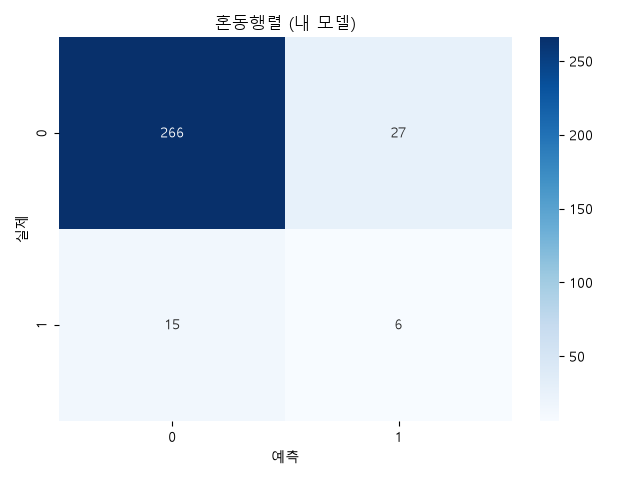
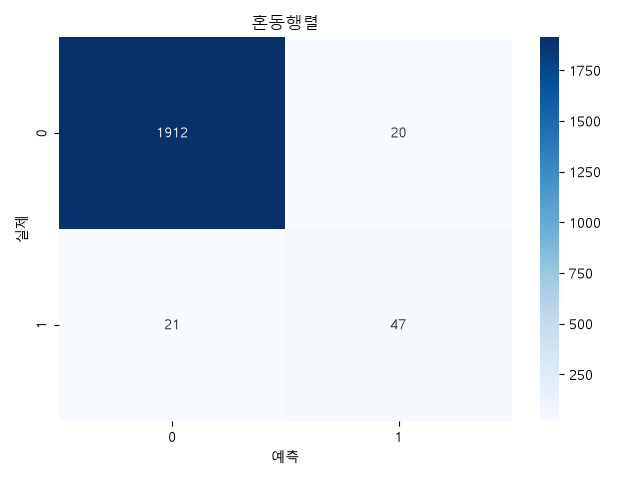
Rework tabs 3-5 for classification pipeline and add threshold slider
Reverts an in-session regression detour back to classification (logistic
regression / decision tree / random forest with an optional class-weight
toggle), moves training out of the results tab so it isn't repeated on
every rerun, adds importance/confusion-matrix/compare-bar figures plus an
interactive threshold slider that re-cuts already-computed probabilities
instead of retraining, and fixes Korean glyphs in matplotlib figures by
registering the font file directly instead of relying on the
now-incompatible koreanize-matplotlib package.

diff --git a/day08/lab25_analysis_app/app.py b/day08/lab25_analysis_app/app.py
@@ -2,18 +2,30 @@ import os
 import streamlit as st
 import pandas as pd
 import matplotlib.pyplot as plt
+from matplotlib import font_manager
 import seaborn as sns
 from datetime import datetime
 from sklearn.model_selection import train_test_split
 from sklearn.preprocessing import StandardScaler
 from sklearn.linear_model import LogisticRegression
 from sklearn.tree import DecisionTreeClassifier
-from sklearn.metrics import accuracy_score, precision_score, recall_score, confusion_matrix
+from sklearn.ensemble import RandomForestClassifier
+from sklearn.metrics import accuracy_score, precision_score, recall_score, f1_score, confusion_matrix
 from dotenv import load_dotenv
 import google.generativeai as genai
 
-plt.rcParams["font.family"] = "Malgun Gothic"
 plt.rcParams["axes.unicode_minus"] = False
+
+_KOREAN_FONT_CANDIDATES = [
+    r"C:\Windows\Fonts\malgun.ttf",
+    "/usr/share/fonts/truetype/nanum/NanumGothic.ttf",
+    "/usr/share/fonts/opentype/noto/NotoSansCJK-Regular.ttc",
+]
+for _font_path in _KOREAN_FONT_CANDIDATES:
+    if os.path.exists(_font_path):
+        font_manager.fontManager.addfont(_font_path)
+        plt.rcParams["font.family"] = font_manager.FontProperties(fname=_font_path).get_name()
+        break
 
 load_dotenv(os.path.join(os.path.dirname(__file__), ".env"))
 
@@ -176,78 +188,110 @@ with tab2:
 
 with tab3:
     if "X_train" not in st.session_state:
-        st.write("2번 탭에서 적용을 먼저 눌러주세요")
+        st.write("전처리를 먼저 해주세요")
     else:
-        model_choice = st.selectbox("어떤 모델을 쓸까요", ["로지스틱 회귀", "결정나무"], key="model_choice")
+        model_choice = st.selectbox(
+            "어떤 모델을 쓸까요", ["로지스틱 회귀", "의사결정나무", "랜덤 포레스트"], key="model_choice"
+        )
+        use_weight = st.toggle("적은 쪽에 가중치 주기", value=False, key="use_weight")
 
-        if st.button("학습하기"):
+        if st.button("학습"):
             X_train = st.session_state["X_train"]
+            X_test = st.session_state["X_test"]
             y_train = st.session_state["y_train"]
+            y_test = st.session_state["y_test"]
 
             scaler = StandardScaler()
             X_train_scaled = scaler.fit_transform(X_train)
+            X_test_scaled = scaler.transform(X_test)
+
+            class_weight = "balanced" if use_weight else None
 
             if model_choice == "로지스틱 회귀":
-                model = LogisticRegression(max_iter=1000)
+                model = LogisticRegression(max_iter=1000, class_weight=class_weight)
                 learning_point = (
                     "각 변수에 가중치(계수)를 곱해서 더한 값을 0~1 사이 확률로 바꿔 판단합니다. "
                     "계수의 절댓값이 클수록 그 변수가 판단에 크게 작용합니다."
                 )
-            else:
-                model = DecisionTreeClassifier(random_state=42)
+            elif model_choice == "의사결정나무":
+                model = DecisionTreeClassifier(random_state=42, class_weight=class_weight)
                 learning_point = (
                     "한 번에 변수 하나를 골라 기준값보다 큰지 작은지로 데이터를 둘로 나누는 것을 반복합니다. "
                     "어떤 변수로 얼마나 자주 나눴는지가 변수 중요도로 남습니다."
                 )
+            else:
+                model = RandomForestClassifier(random_state=42, class_weight=class_weight)
+                learning_point = (
+                    "여러 개의 의사결정나무를 조금씩 다르게 만들어서 다수결로 판단합니다. "
+                    "나무 하나만 쓸 때보다 결과가 안정적인 경향이 있습니다."
+                )
             model.fit(X_train_scaled, y_train)
+            y_pred = model.predict(X_test_scaled)
+
+            baseline_value = y_train.mode()[0]
+            baseline_pred = pd.Series(baseline_value, index=y_test.index)
+
+            compare_table = pd.DataFrame({
+                "구분": ["기준 모델(전부 정상)", f"내 모델({model_choice})"],
+                "정확도": [
+                    round(accuracy_score(y_test, baseline_pred) * 100, 2),
+                    round(accuracy_score(y_test, y_pred) * 100, 2),
+                ],
+                "정밀도": [
+                    round(precision_score(y_test, baseline_pred, zero_division=0), 3),
+                    round(precision_score(y_test, y_pred, zero_division=0), 3),
+                ],
+                "재현율": [
+                    round(recall_score(y_test, baseline_pred, zero_division=0), 3),
+                    round(recall_score(y_test, y_pred, zero_division=0), 3),
+                ],
+                "F1": [
+                    round(f1_score(y_test, baseline_pred, zero_division=0), 3),
+                    round(f1_score(y_test, y_pred, zero_division=0), 3),
+                ],
+            })
 
             st.session_state["scaler"] = scaler
             st.session_state["model"] = model
+            st.session_state["compare_table"] = compare_table
             st.write("학습이 끝났습니다")
             st.write(f"학습 포인트 ({model_choice}): {learning_point}")
+            st.dataframe(compare_table)
 
 with tab4:
     if "model" not in st.session_state:
-        st.write("3번 탭에서 학습을 먼저 해주세요")
+        st.write("학습을 먼저 해주세요")
     else:
-        X_train = st.session_state["X_train"]
         X_test = st.session_state["X_test"]
-        y_train = st.session_state["y_train"]
         y_test = st.session_state["y_test"]
         scaler = st.session_state["scaler"]
         model = st.session_state["model"]
 
         y_pred = model.predict(scaler.transform(X_test))
+        compare_table = st.session_state["compare_table"]
 
-        baseline_value = y_train.mode()[0]
-        baseline_pred = pd.Series(baseline_value, index=y_test.index)
-
-        model_name = st.session_state.get("model_choice", "로지스틱 회귀")
-        compare_table = pd.DataFrame({
-            "구분": ["기준 모델(다수 값만 답함)", f"내 모델({model_name})"],
-            "정확도": [
-                round(accuracy_score(y_test, baseline_pred) * 100, 2),
-                round(accuracy_score(y_test, y_pred) * 100, 2),
-            ],
-            "정밀도": [
-                round(precision_score(y_test, baseline_pred, zero_division=0), 3),
-                round(precision_score(y_test, y_pred, zero_division=0), 3),
-            ],
-            "재현율": [
-                round(recall_score(y_test, baseline_pred, zero_division=0), 3),
-                round(recall_score(y_test, y_pred, zero_division=0), 3),
-            ],
-        })
-        st.session_state["compare_table"] = compare_table
-
-        st.write("기준 모델과 내 모델을 견줍니다")
+        st.write("기준 모델과 내 모델을 견줍니다 (3번 탭 학습 결과)")
         st.dataframe(compare_table)
 
         figures_dir = os.path.join(os.path.dirname(__file__), "figures")
         os.makedirs(figures_dir, exist_ok=True)
 
+        fig, ax = plt.subplots()
+        ax.scatter(y_test, y_pred, alpha=0.4)
+        min_val = min(float(y_test.min()), float(y_pred.min()))
+        max_val = max(float(y_test.max()), float(y_pred.max()))
+        ax.plot([min_val, max_val], [min_val, max_val], color="red", linestyle="--")
+        ax.set_xlabel("실제값")
+        ax.set_ylabel("예측값")
+        ax.set_title("실제값과 예측값")
+        fig.tight_layout()
+        fig.savefig(os.path.join(figures_dir, "actual_vs_predicted.png"))
+        st.pyplot(fig)
+
+        X_train = st.session_state["X_train"]
+
         if hasattr(model, "coef_"):
-            importance = pd.Series(model.coef_[0], index=X_train.columns).abs().sort_values(ascending=False)
+            importance = pd.Series(model.coef_.ravel(), index=X_train.columns).abs().sort_values(ascending=False)
             importance_label = "영향 크기(계수 절댓값)"
         else:
             importance = pd.Series(model.feature_importances_, index=X_train.columns).sort_values(ascending=False)
@@ -263,12 +307,12 @@ with tab4:
         st.pyplot(fig1)
         st.write("어느 항목이 판단에 많이 쓰였는지 보여줍니다")
 
-        cm = confusion_matrix(y_test, y_pred)
+        cm = confusion_matrix(y_test, y_pred, labels=[0, 1])
         fig2, ax2 = plt.subplots()
         sns.heatmap(cm, annot=True, fmt="d", cmap="Blues", ax=ax2)
         ax2.set_xlabel("예측")
         ax2.set_ylabel("실제")
-        ax2.set_title("혼동행렬 (내 모델)")
+        ax2.set_title("혼동행렬")
         fig2.tight_layout()
         fig2.savefig(os.path.join(figures_dir, "confusion_matrix.png"))
         st.pyplot(fig2)
@@ -286,6 +330,35 @@ with tab4:
         st.pyplot(fig3)
         st.write("기준 모델과 내 모델의 점수를 나란히 놓고 비교합니다")
 
+        st.write("문턱을 옮겨서 다시 잘라봅니다 (다시 학습하지 않습니다)")
+        y_proba = model.predict_proba(scaler.transform(X_test))[:, 1]
+        threshold = st.slider("문턱", min_value=0.05, max_value=0.95, value=0.5, step=0.05)
+        st.write(f"지금 문턱: {threshold}")
+
+        y_pred_th = (y_proba >= threshold).astype(int)
+        cm_th = confusion_matrix(y_test, y_pred_th, labels=[0, 1])
+        tn_th, fp_th, fn_th, tp_th = cm_th.ravel()
+
+        st.write(f"지목한 건수: {int(y_pred_th.sum())}")
+        st.write(f"그중 진짜 건수: {int(tp_th)}")
+        st.write(f"놓친 건수: {int(fn_th)}")
+
+        threshold_score_table = pd.DataFrame({
+            "지표": ["정밀도", "재현율", "F1"],
+            "값": [
+                round(precision_score(y_test, y_pred_th, zero_division=0), 3),
+                round(recall_score(y_test, y_pred_th, zero_division=0), 3),
+                round(f1_score(y_test, y_pred_th, zero_division=0), 3),
+            ],
+        })
+        st.dataframe(threshold_score_table)
+
+        threshold_confusion_table = pd.DataFrame({
+            "구분": ["잡은 것", "놓친 것", "헛경보", "정상을 정상이라 한 것"],
+            "건수": [int(tp_th), int(fn_th), int(fp_th), int(tn_th)],
+        })
+        st.dataframe(threshold_confusion_table)
+
 with tab5:
     if not api_key:
         st.write("열쇠가 없습니다")
@@ -299,7 +372,7 @@ with tab5:
                 "각 줄은 두 문장을 넘지 않게. 숫자를 새로 만들지 말고 표에 있는 값만 써. "
                 "1) 무엇을 판단하려 했나 2) 데이터를 어떻게 손봤나 "
                 "3) 어떤 모델을 왜 골랐나 4) 결과가 어땠나(잘된 것과 놓친 것을 같이) "
-                "5) 문턱을 옮기면 무엇이 맞바뀌나\n\n"
+                "5) 표에 있는 지표를 근거로 아쉬운 점이나 다음에 해볼 것\n\n"
                 f"{compare_table.to_string(index=False)}"
             )
             try:

diff --git a/day08/lab25_analysis_app/notes.md b/day08/lab25_analysis_app/notes.md
@@ -98,6 +98,8 @@ streamlit 1.62.0 설치됨
 - 빗금 목록에 preprocess 가 보였나 : [보였다]
 - 다섯 단계를 하나씩 짚었나 : [짚었다]
 - 빠진 단계가 있었나 : [없었다]
+
+
 # 실습 28 - 폴더를 읽혀서 노션에 정리하기
 
 ### 용어 풀이 - 이번에 나온 말
@@ -108,6 +110,7 @@ streamlit 1.62.0 설치됨
 | 연결(붙인다) | 한 번만 하면 계속 남는 설정. 프로젝트마다 다시 안 해도 된다 |
 | 인증 | 이 계정의 이 페이지들을 봐도 된다고 내가 허락하는 것 |
 | 통합 터미널 | VS Code 아래쪽 검은 칸. 실습 21에서 처음 열어본 그것 |
+## Step 3. 그림 세 장 붙이기
 ## Step 4. 정리를 받을 자리
 
 - 페이지 제목 : [WISET 공학계열 심화 - 작업 일지]
@@ -158,5 +161,48 @@ GOOGLE_API_KEY=[비워둠]
 
 ③을 보여주며 할 말 : [여기를 옮기면 놓친 것이 줄고 헛경보가 늡니다]
 ## Step 3. 제출본에 앱 화면 얹기
+
+
+---
+## 직접 해보기 (도전) - 저장소 첫 화면에 주소 걸기
+
+- 상황: 저장소를 열어도 이 프로젝트가 뭘 하는 건지, 어디서 볼 수 있는지 모른다
+- 할 일: README 맨 위에 앱 주소와 화면 한 장을 넣는다
+- 결과물: 저장소 첫 화면에 주소와 그림이 보이는 상태
+
+- 내 앱 주소 : [https://https://defect-prediction-krbnjrtudvbqttbf5jwbpp.streamlit.app/]
+- 다른 기기에서 열어봤나 : [열렸다]
+- 해석 문장 단추가 되나 : [된다]
+## Step 7. 리포트 뼈대 다섯 줄
+
+1. 설비 측정값으로 고장을 미리 알아채는 것을 판단 대상으로 삼았다. 정리에는 이를 "설비 측정값으로 정밀 재검사 대상을 먼저 고르는 문제"로 적어두었다.
+2. [정리에는 이 프로젝트의 데이터 손질 과정이 적혀 있지 않다]
+3. 정리에는 기준 모델과 로지스틱 회귀 모델(v1)을 만들었다고 적혀 있다. [어떤 이유로 로지스틱 회귀를 골랐는지는 정리에 없다]
+4. 기준 모델 대비 정확도 [    ], 재현율 [    ]. [잘된 점과 놓친 점을 구체적으로 적은 말은 정리에 없다]
+5. [문턱을 옮겼을 때 무엇이 맞바뀌는지는 정리에 적혀 있지 않다]
+---
+## 직접 해보기 (도전) - 노션에 있는 걸 되가져와 PDF로
+
+- 상황: 노션은 올라갔는데, 제출은 파일 하나로 내야 한다
+- 할 일: 노션 정리를 다시 읽어와 한 편의 리포트로 합치고 PDF로 저장한다
+- 결과물: secom-project 안에 PDF 파일 1개
+## Step 4. 문턱 슬라이더 달기
+
+
+# 실습 27 - 학습·결과 탭과 손잡이
+
+### 용어 풀이 - 되짚기
+
+| 말 | 뜻 |
+|---|---|
+| 문턱(임계값) | 가능성이 이만큼 넘으면 불량이라 하겠다 하는 선. 기본은 0.5 |
+| 정밀도(precision) | 지목한 것 중 진짜의 비율 - 헛걸음이 적으면 높다 |
+| 재현율(recall) | 진짜 중에 잡아낸 비율 - 놓친 게 적으면 높다 |
+| F1 | 정밀도와 재현율을 한 숫자로 묶은 것 |
+| 가중치 | 적은 쪽(불량)을 더 무겁게 쳐서 학습시키는 것 |
+
+
+## Step 1. 탭 3 - 학습
+## Step 2. 탭 4 - 결과
 ## Step 3. 그림 세 장 붙이기
-## Step 3. 제출본에 앱 화면 얹기
+## Step 4. 문턱 슬라이더 달기
